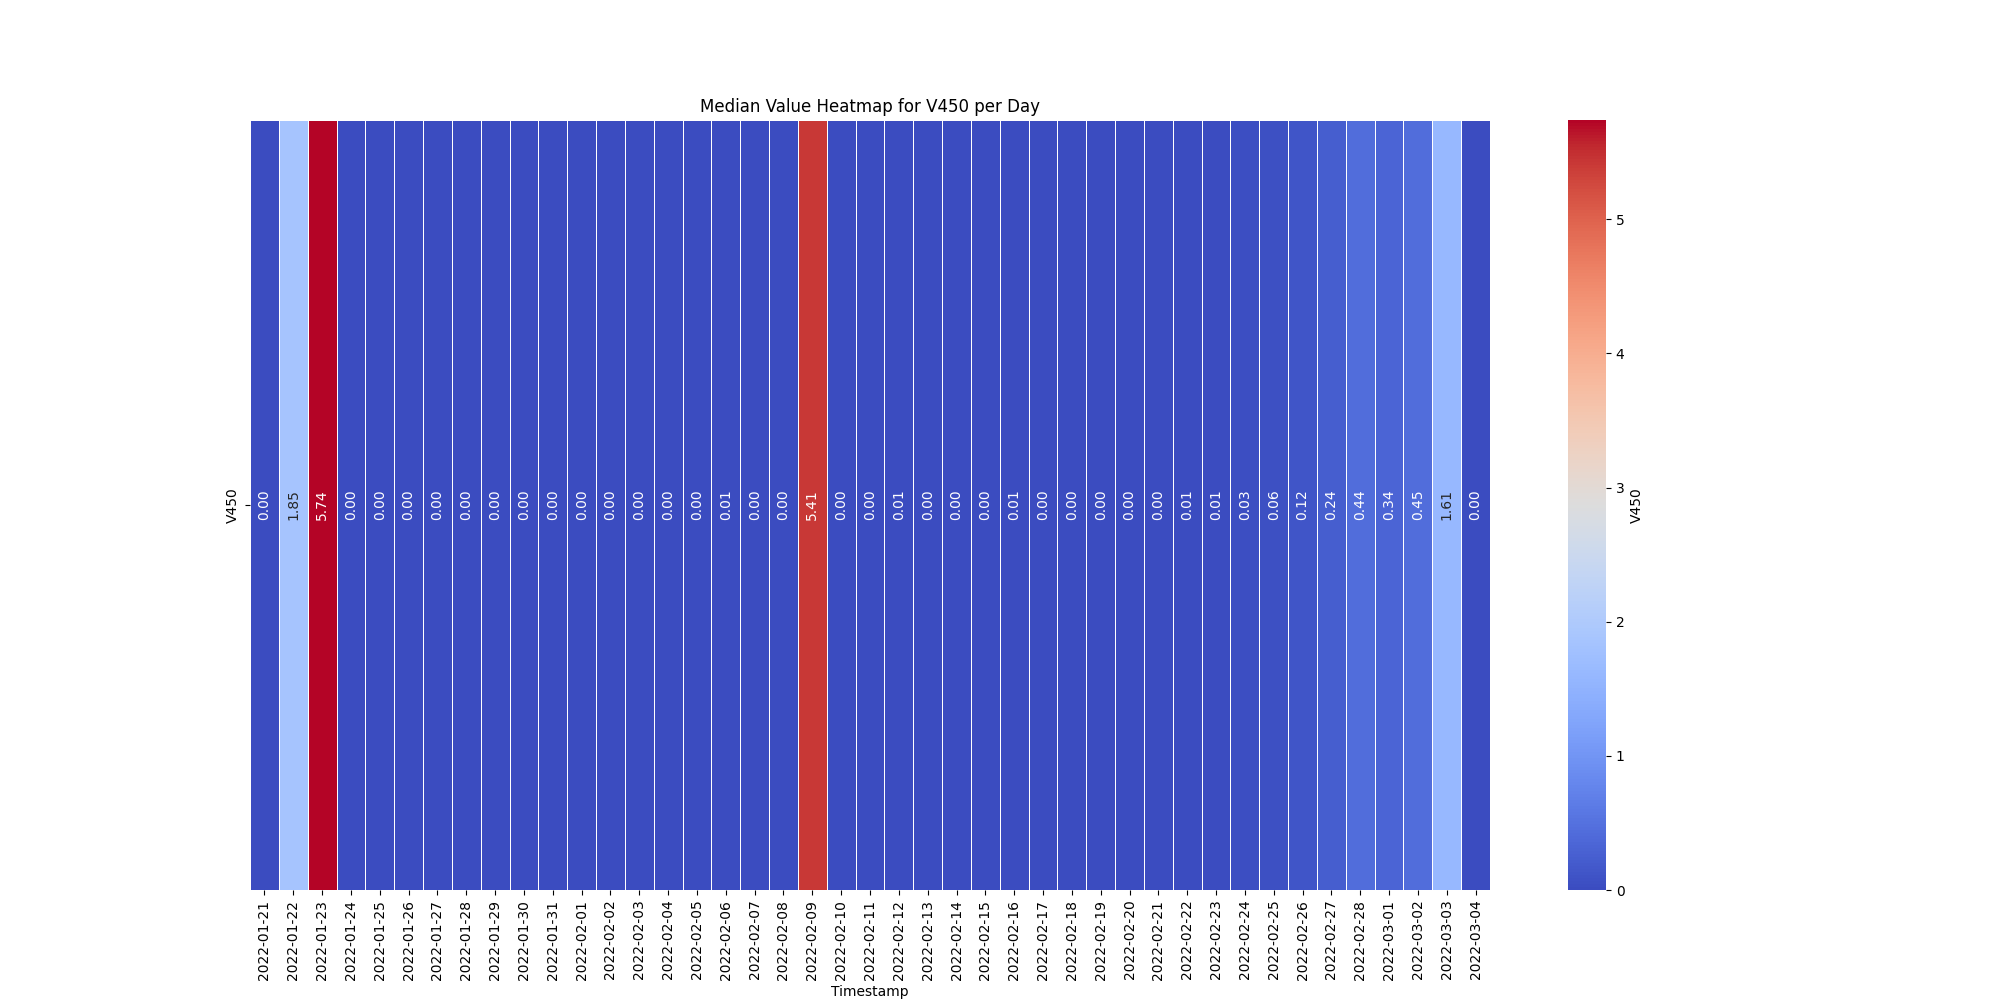
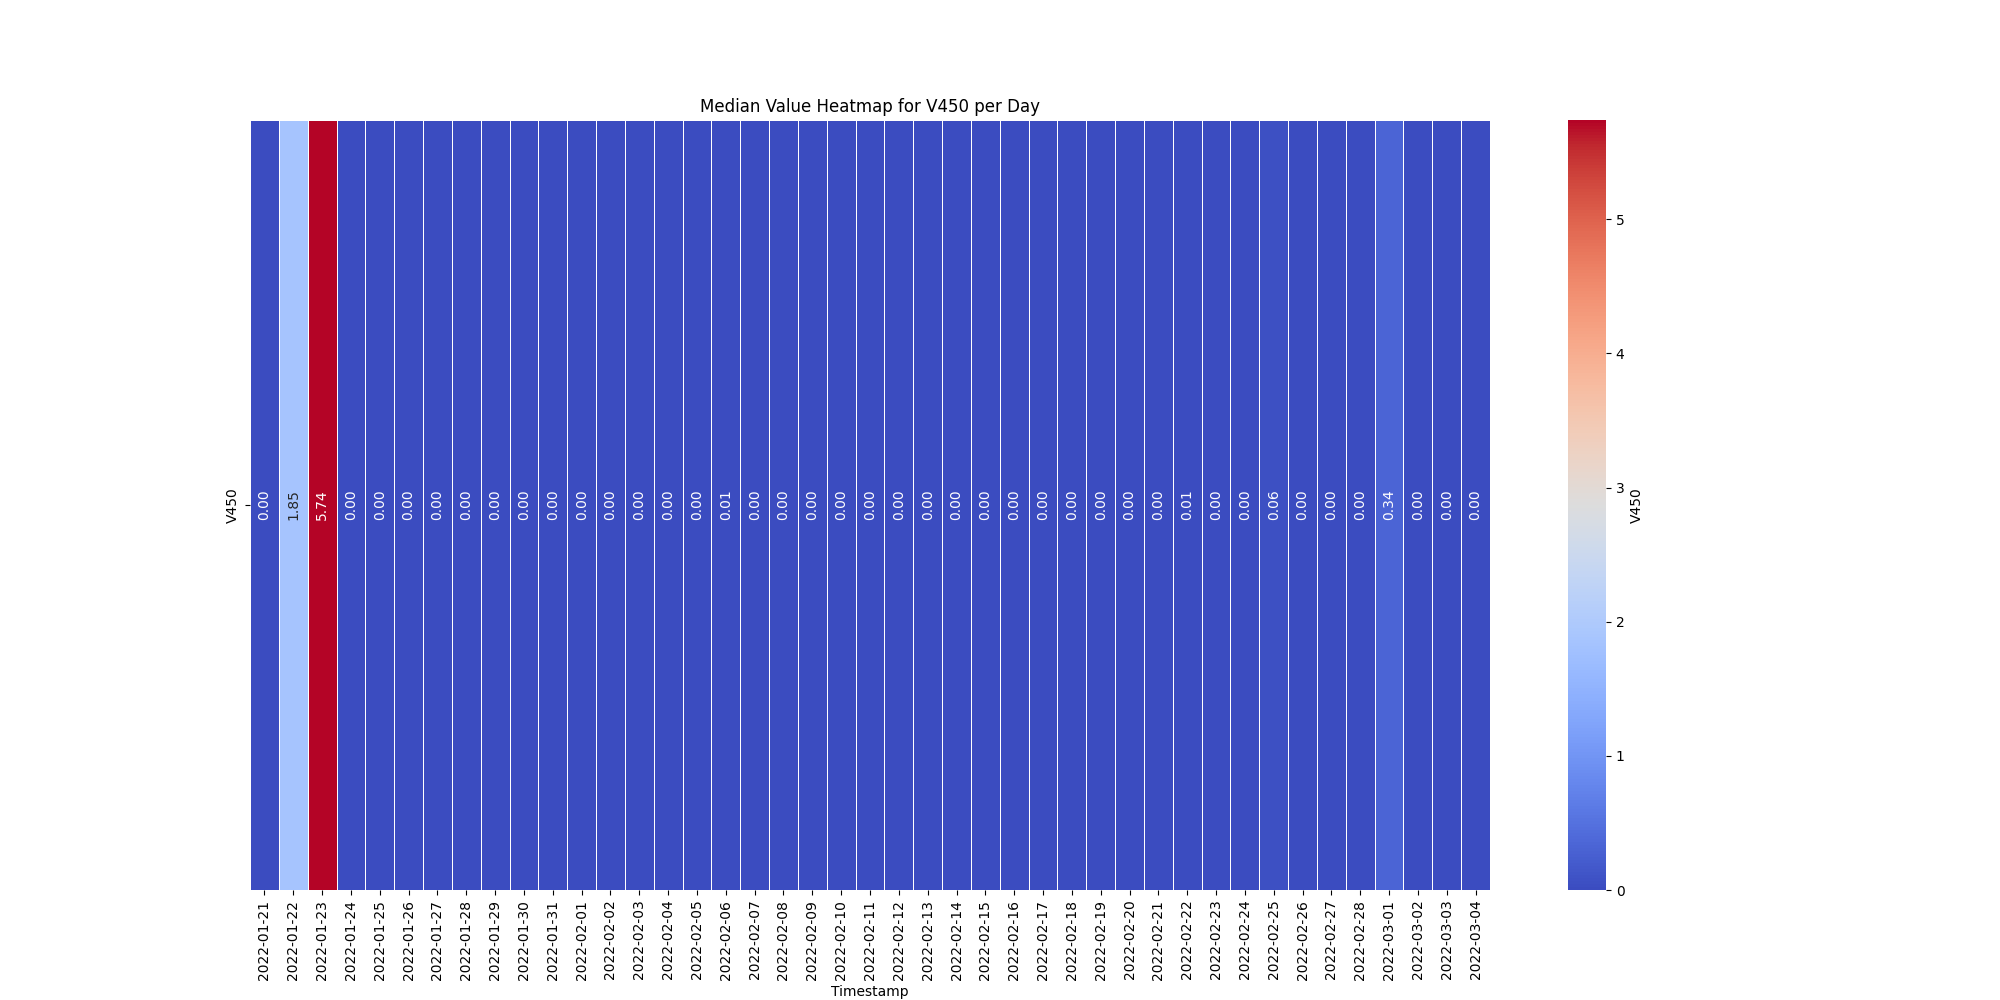
removed parameters based on correlation matrix, removed outliers except for lumina

Changed region(s): [[0.651, 0.124, 0.744, 0.899], [0.372, 0.124, 0.434, 0.899]]

diff --git a/tema1.py b/tema1.py
@@ -2,16 +2,20 @@ import pandas as pd
 import seaborn as sns
 import matplotlib.pyplot as plt
 import os
+import numpy as np
+
 
 def load_data(file_path):
     data = pd.read_csv(file_path, parse_dates=['Timestamp'])
     return data
+
 
 def preprocess_data(df):
     # Drop the hours from the Timestamp column
     df['Timestamp'] = df['Timestamp'].dt.date
 
     return df
+
 
 def calculate_heatmaps(df):
     means = df.groupby('Timestamp').mean()
@@ -20,7 +24,8 @@ def calculate_heatmaps(df):
     for param in df.columns:
         if param != 'Timestamp':
             plt.figure(figsize=(20, 10))
-            ax = sns.heatmap(means[[param]].T, cmap='coolwarm', annot=True, fmt=".2f", linewidths=.5, cbar_kws={'label': param}, annot_kws={'rotation': 0})
+            ax = sns.heatmap(means[[param]].T, cmap='coolwarm', annot=True, fmt=".2f", linewidths=.5,
+                             cbar_kws={'label': param}, annot_kws={'rotation': 0})
             plt.title(f'Mean Value Heatmap for {param} per Day')
             for text in ax.texts:
                 text.set_rotation('vertical')
@@ -28,23 +33,65 @@ def calculate_heatmaps(df):
             plt.close()
 
             plt.figure(figsize=(20, 10))
-            ax = sns.heatmap(medians[[param]].T, cmap='coolwarm', annot=True, fmt=".2f", linewidths=.5, cbar_kws={'label': param}, annot_kws={'rotation': 0})
+            ax = sns.heatmap(medians[[param]].T, cmap='coolwarm', annot=True, fmt=".2f", linewidths=.5,
+                             cbar_kws={'label': param}, annot_kws={'rotation': 0})
             plt.title(f'Median Value Heatmap for {param} per Day')
             for text in ax.texts:
                 text.set_rotation('vertical')
             plt.savefig(os.path.join("./median_values", f'median_heatmap_{param}.png'))
             plt.close()
 
+
+def feature_selection(df, correlation_threshold=0.8):
+    numeric_columns = df.select_dtypes(include='number')
+    corr_matrix = numeric_columns.corr()
+
+    # Identify parameters with correlations above the threshold
+    high_correlation_pairs = [(col1, col2, corr)
+                              for col1 in corr_matrix.columns
+                              for col2 in corr_matrix.columns
+                              if col1 < col2 and abs(corr := corr_matrix.loc[col1, col2]) > correlation_threshold]
+
+    # Create a set to store variables to drop
+    variables_to_drop = set()
+
+    for col1, col2, _ in high_correlation_pairs:
+        # Add the variable with a higher number of missing values to the set
+        if df[col1].isnull().sum() > df[col2].isnull().sum():
+            variables_to_drop.add(col2)
+        else:
+            variables_to_drop.add(col1)
+
+    # Drop the variables with high correlations and more missing values
+    df.drop(variables_to_drop, axis=1, inplace=True)
+    print(variables_to_drop)
+    return df
+
+
 def calculate_boxplots(df):
     for param in df.columns:
         if param != 'Timestamp':
+
+            # Continue with the existing code for boxplots
+            Q1 = df[param].quantile(0.25)
+            Q3 = df[param].quantile(0.75)
+            IQR = Q3 - Q1
+            filter_condition = (df[param] >= Q1 - 1.5 * IQR) & (df[param] <= Q3 + 1.5 * IQR)
+            df_no_outliers = df.loc[filter_condition]
+
             plt.figure(figsize=(20, 10))
-            sns.boxplot(x=df[param], showfliers=True)
-            plt.title(f'Boxplot for {param} with Outliers')
+            sns.boxplot(x=df_no_outliers[param])
+            plt.title(f'Boxplot for {param} without Outliers (IQR Method)')
             plt.xlabel(param)
 
-            plt.savefig(os.path.join("./boxplots", f'boxplot_{param}.png'))
+            plt.savefig(os.path.join("./boxplots", f'boxplot_{param}_no_outliers.png'))
             plt.close()
+
+
+
+
+
+
 
 def calculate_correlation_matrix(df):
     numeric_columns = df.select_dtypes(include='number')
@@ -65,21 +112,22 @@ def calculate_correlation_matrix(df):
 
     direct_correlations = corr_matrix.unstack().sort_values(ascending=False).drop_duplicates()
     inverse_correlations = corr_matrix.unstack().sort_values(ascending=True).drop_duplicates()
+    #comment these cand vrei sa eliberezi consola
+    # print("Top 5 Direct Correlations:")
+    # print(direct_correlations.head(5))
+    #
+    # print("\nTop 5 Inverse Correlations:")
+    # print(inverse_correlations.head(5))
 
-    print("Top 5 Direct Correlations:")
-    print(direct_correlations.head(5))
-
-    print("\nTop 5 Inverse Correlations:")
-    print(inverse_correlations.head(5))
 
 if __name__ == '__main__':
     file_path = "./SensorMLDataset_small.csv"
     df = load_data(file_path)
     df = preprocess_data(df)
+    df = feature_selection(df, correlation_threshold=0.8)
+    # Save the modified DataFrame to a new CSV file
+    new_csv_path = "./SensorMLDataset_small_modified.csv"
+    df.to_csv(new_csv_path, index=False)
     calculate_heatmaps(df)
     calculate_boxplots(df)
     calculate_correlation_matrix(df)
-
-
-
-
